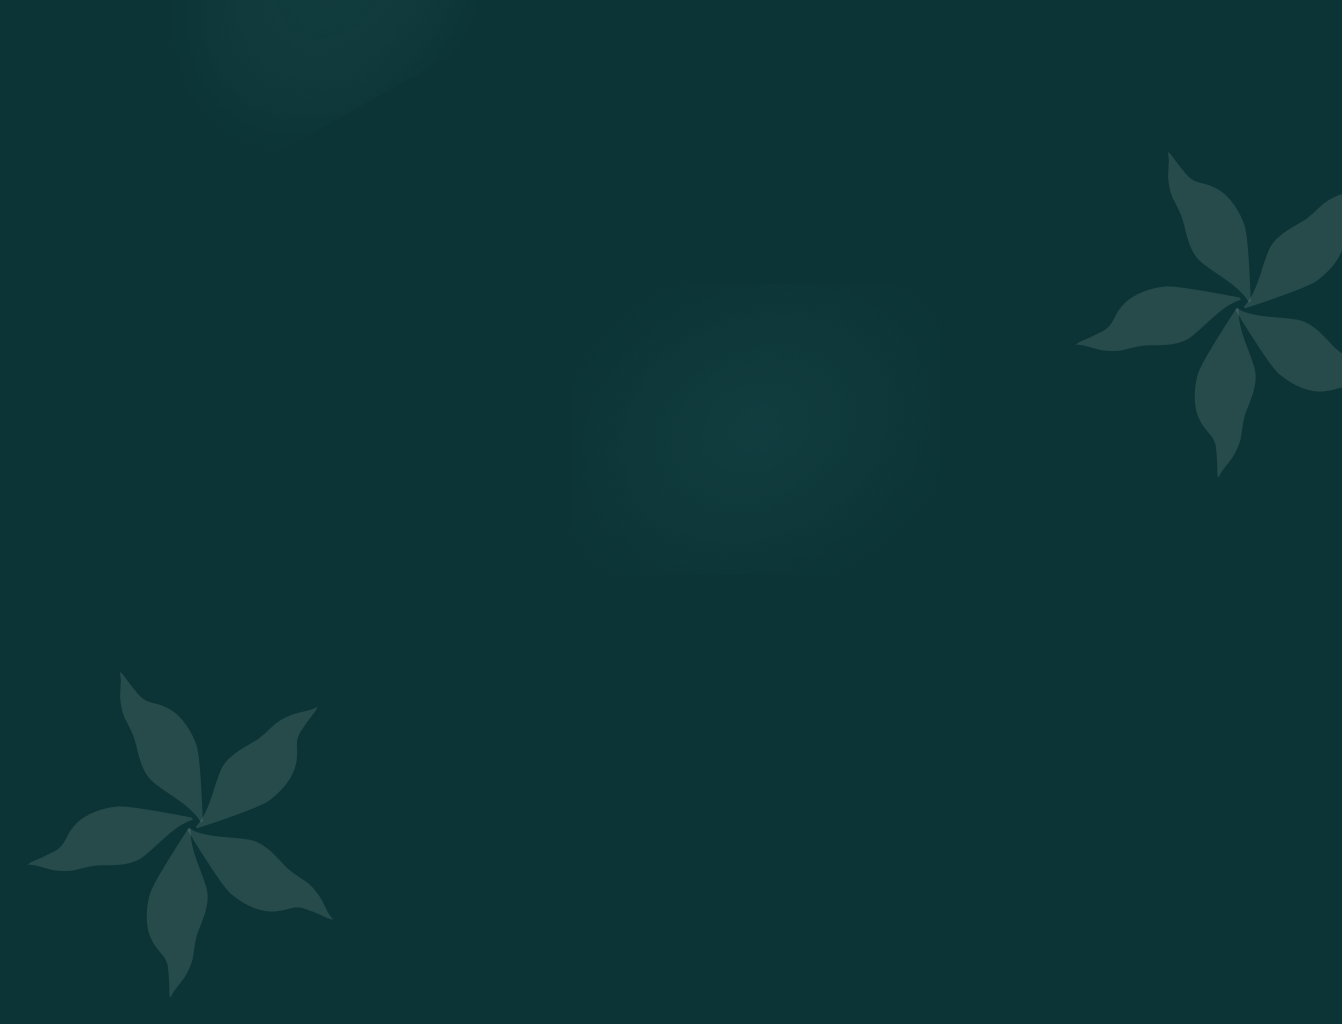
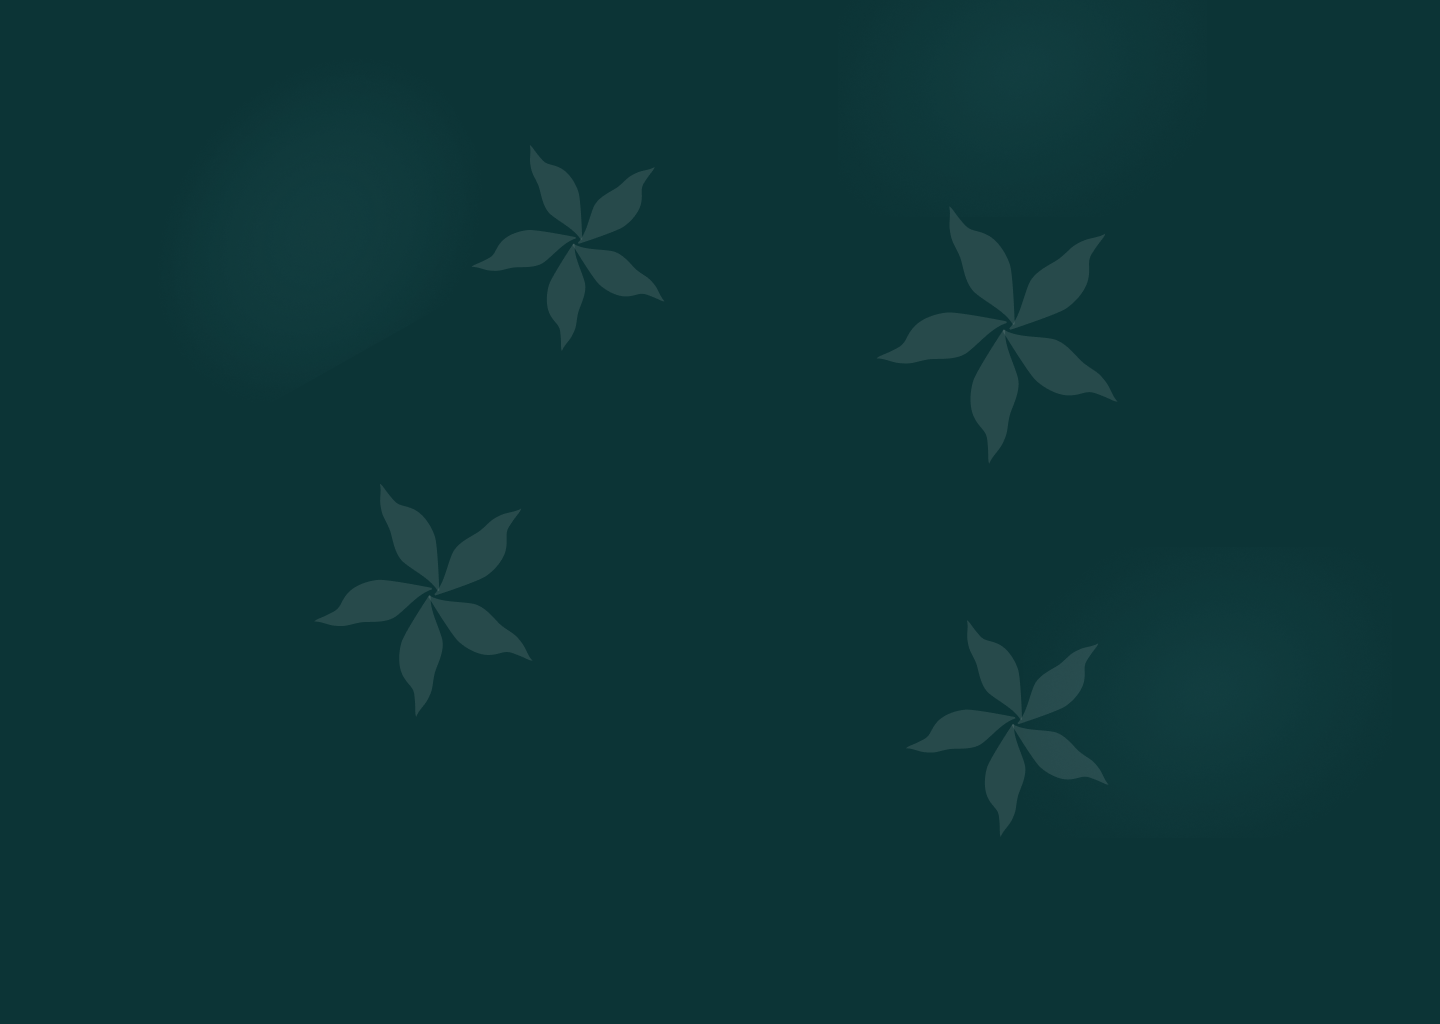
changed background

diff --git a/styles.css b/styles.css
@@ -71,17 +71,20 @@ html{
   font-size: 62.5%;
   scroll-padding-top: 9rem;
   scroll-behavior: smooth;
+  overflow-x: hidden;
 }
 
 body{
-  background-image: url("./images/all-backg.png");
+  
+  background-size: cover;
+  background-position: center;
+  background-repeat: no-repeat;
   overflow-x: hidden;
 }
 
 section{
   padding: 9rem 7%;
 }
-
 
 
 .header{
@@ -184,6 +187,12 @@ section{
   color: var(--sec-color);
 }
 
+.about{
+  background: url(./images/all-backg.png) no-repeat;
+  background-size: cover;
+  background-position: center;
+}
+
 .about .row{
   display: flex;
   align-items: center;
@@ -237,6 +246,12 @@ section{
   color: var(--bg-color-dipper);
 }
 
+.menu{
+  background: url(./images/all-backg.png) no-repeat;
+  background-size: cover;
+  background-position: center;
+}
+
 .menu .box-container{
   display: grid;
   grid-template-columns: repeat(auto-fit, minmax(30rem, 1fr));
@@ -275,6 +290,12 @@ section{
 
 .menu .box-container .box:hover{
  border: 1px solid var(--sec-color);
+}
+
+.shop{
+  background: url(./images/all-backg.png) no-repeat;
+  background-size: cover;
+  background-position: center;
 }
 
 .shop .box-container{
@@ -335,7 +356,11 @@ section{
 
 
 
-
+.customers{
+  background: url(./images/all-backg.png) no-repeat;
+  background-size: cover;
+  background-position: center;
+}
 
 .review-container{
   display: grid;
@@ -400,6 +425,12 @@ section{
 
 .fade-in-delay.appear-delay{
   opacity: 1;
+}
+
+.contact{
+  background: url(./images/all-backg.png) no-repeat;
+  background-size: cover;
+  background-position: center;
 }
 
 .contact .row{
@@ -481,7 +512,6 @@ input:focus::placeholder{
   display: grid;
   grid-template-columns: repeat(auto-fit, minmax(240px, auto));
   gap: 1.5rem;
-
 }
 
 .footer-box h3{
